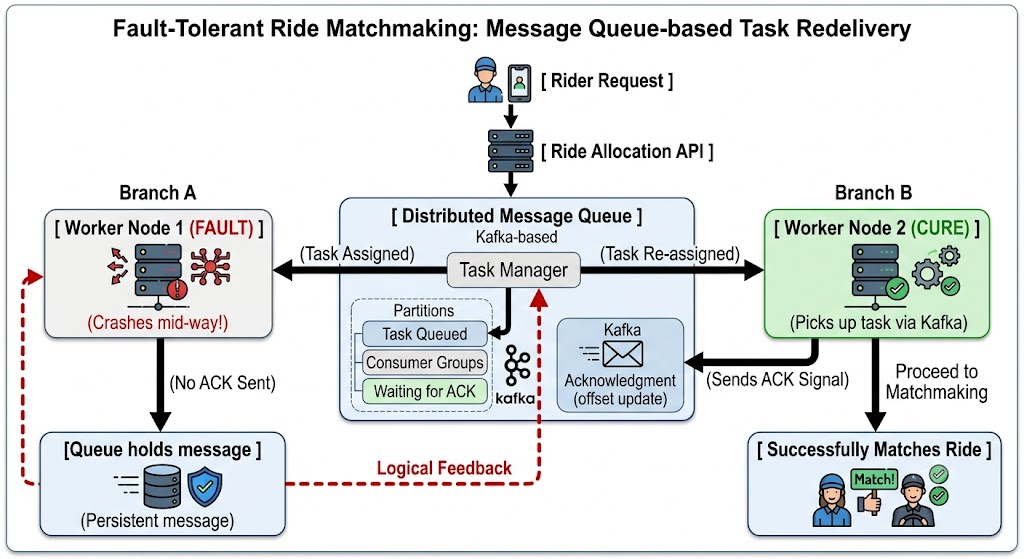
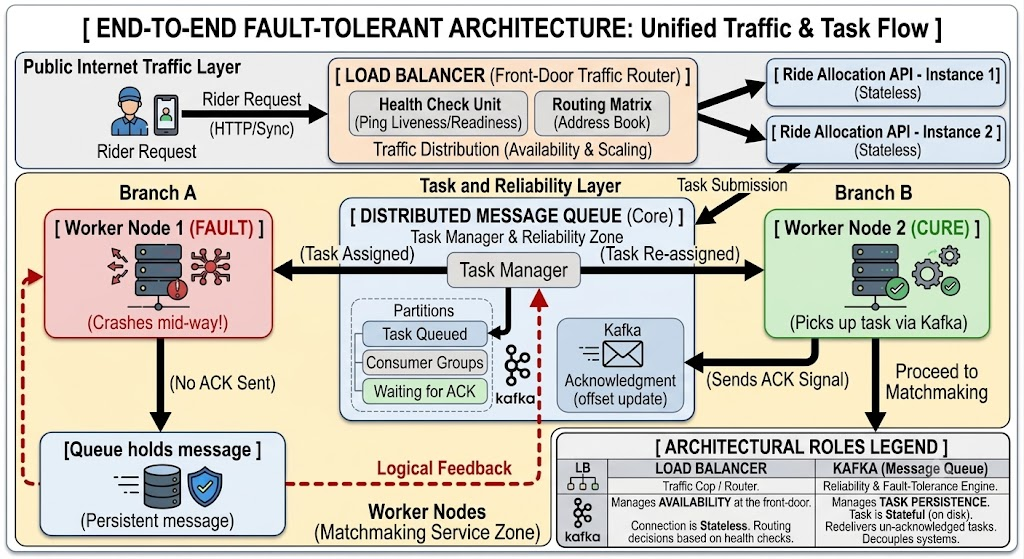
Fault Tolerance

diff --git a/02-day-defining-nonfunctional-requirements/readme.md b/02-day-defining-nonfunctional-requirements/readme.md
@@ -526,6 +526,8 @@ Lekin agar aapka system distributed hai (multiple nodes hain), toh aik node ka c
 
 ## Fault Tolerance
 
+Fault tolerance kisi bhi system ki wo salahiyat hai jiski wajah se woh apne kisi hissay (component) ke fail ya crash ho jane ke bawajood apna kaam jari rakh sakta hai. Ek fault-tolerant system ka maqsad yeh hota hai ke agar koi server ya node kharab ho jaye, toh poora system down na ho; balkay system khud-ba-khud us kharabi ko detect karke traffic ko sehat-mand (healthy) servers par shift kar de, taake user ko system mein koi rukawat ya interruption mehsus na ho.
+
 Aik system ko **Fault-Tolerant** tab kaha jata hai jab wo distributed nodes mein faults aane ke bawajood users ko bina rukawat ke service deta rahay.
 
 * **SPOF (Single Point of Failure):** Agar system ka koi aisa component hai jiske kharab hone se poora system directly baith jata hai (yaani fault directly failure mein badal jata hai), toh usay architecture ki zaban mein SPOF kehte hain. Behtar distributed system design ka maqsad hi SPOFs ko khatam karna hota hai.